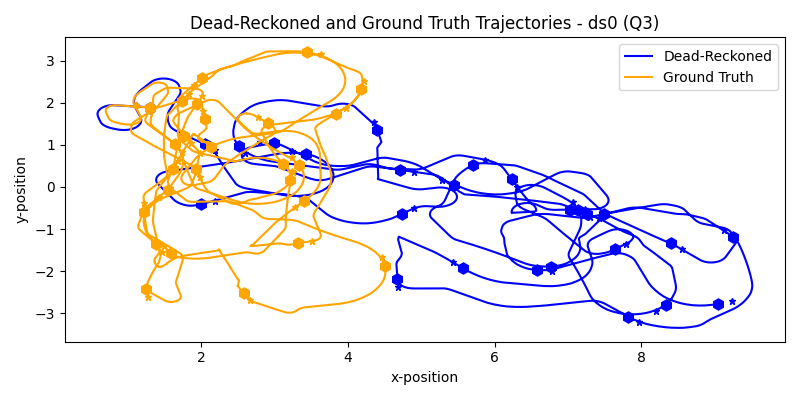
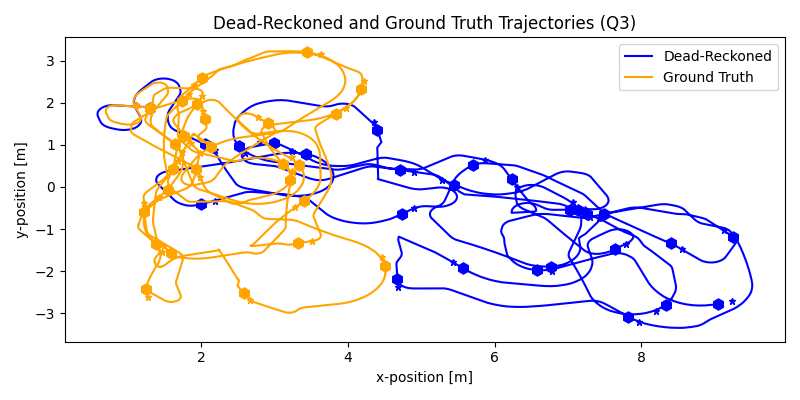
Added more analysis

Changed region(s): [[0.2188, 0.03, 0.8125, 0.09], [0.0, 0.36, 0.0312, 0.6], [0.4688, 0.93, 0.5938, 0.96]]

diff --git a/run.py b/run.py
@@ -145,12 +145,14 @@ def gen_u_traj_test(h):
 
     return np.vstack([straight, right_turn, straight, left_turn, straight])
 
-def plot_wheeled_robot(trajectories, title, filename):
+def plot_wheeled_robot(trajectories, title, filename, plot_dr=True):
     """
     Plot the trajectory followed by a wheeled robot in the X-Y Plane
     """
     # Plot path
-    fig, ax = plt.subplots(1, 1, figsize=(8,4), tight_layout=True)
+    if plot_dr: length = 8
+    else: length = 5
+    fig, ax = plt.subplots(1, 1, figsize=(length,4), tight_layout=True)
     for traj, label, display_robot, color, offset in trajectories:    # Plot multiple trajectories
         ax.plot(traj[:, 0], traj[:, 1], label=label, color=color)
 
@@ -164,8 +166,8 @@ def plot_wheeled_robot(trajectories, title, filename):
                     ax.plot(th_x, th_y, linestyle='', marker='*', markersize=5, color=color)
         
     plt.title(title)
-    plt.xlabel("x-position")
-    plt.ylabel("y-position")
+    plt.xlabel("x-position [m]")
+    plt.ylabel("y-position [m]")
     plt.legend()
     fig_path = os.path.join(PLOT_PATH, filename)
     plt.savefig(fig_path)
@@ -257,8 +259,8 @@ def q6():
     # Move legend outside plot
     ax.legend(loc='center left', bbox_to_anchor=(1, 0.5))
     plt.title('Comparison of Measured and Ground Truth Landmark Positions')
-    plt.xlabel("x-position")
-    plt.ylabel("y-position")
+    plt.xlabel("x-position [m]")
+    plt.ylabel("y-position [m]")
     # plt.legend()
     fig_path = os.path.join(PLOT_PATH, 'q6.png')
     plt.savefig(fig_path)
@@ -281,24 +283,36 @@ def q8a():
     t0 = 0.0
     tf = 5.0
     h = 0.01
-    R = np.diag(np.array([0.0001, 0.0001, 0.0001]))
-    q_val = 0.0001
-    Q = np.diag(np.array([q_val, q_val]))
     u_traj = gen_u_traj_test(h) # Generate control trajectory
     tspan, x_traj_dr = dead_reckon(u_traj, motion_model, x0, t0, tf, h, tsync='const')
-    tspan_ukf, x_traj_ukf = unscented_kalman(u_traj, z_df, landmarks, subject_dict, motion_model, measurement_model, 
+    R = np.diag(np.array([0.0001, 0.0001, 0.0001])) # Low noise
+    q_val = 0.0001
+    Q = np.diag(np.array([q_val, q_val]))
+    tspan_ukf, x_traj_ukf_low = unscented_kalman(u_traj, z_df, landmarks, subject_dict, motion_model, measurement_model, 
+                                             x0, t0, tf, h, Q, R, aug=False, tsync='const')
+    R = np.diag(np.array([0.001, 0.001, 0.001])) # Medium noise
+    q_val = 0.001
+    Q = np.diag(np.array([q_val, q_val]))
+    tspan_ukf, x_traj_ukf_med = unscented_kalman(u_traj, z_df, landmarks, subject_dict, motion_model, measurement_model, 
+                                             x0, t0, tf, h, Q, R, aug=False, tsync='const')
+    R = np.diag(np.array([0.01, 0.01, 0.01])) # Higher noise
+    q_val = 0.01
+    Q = np.diag(np.array([q_val, q_val]))
+    tspan_ukf, x_traj_ukf_high = unscented_kalman(u_traj, z_df, landmarks, subject_dict, motion_model, measurement_model, 
                                              x0, t0, tf, h, Q, R, aug=False, tsync='const')
 
     disp_bots = True
     trajectories = [
         (x_traj_dr, 'Dead-Reckoned', disp_bots, 'blue', 0.02),
-        (x_traj_ukf, 'UKF', disp_bots, 'red', 0.02),
+        (x_traj_ukf_low, 'UKF (Low Noise)', disp_bots, 'red', 0.02),
+        (x_traj_ukf_med, 'UKF (Med. Noise)', disp_bots, 'green', 0.02),
+        (x_traj_ukf_high, 'UKF (High Noise)', disp_bots, 'purple', 0.02),
     ]
     _ = plot_wheeled_robot(trajectories, "Dead-Reckoned and UKF Comparison for Artificial Control Trajectory (Q8a)", "q8a.png")
     print("Done\n")
 
 def q8b_9():
-    print("Running question 8b...", end="", flush=True)
+    print("Running question 8b and 9...", end="", flush=True)
     # Read data
     controls_data_path = os.path.join(DATA_PATH, 'ds0', 'ds0_Control.dat')
     u_df = pd.read_csv(controls_data_path, sep=r"\s+", comment="#", header=None, names=["time", "vel", "omega"])
@@ -318,6 +332,13 @@ def q8b_9():
     tf = u_df['time'].iloc[-1]
     h = 1/67.0  # Odometry logged at 67 Hz
     u_traj = np.array(u_df.iloc[:, 1:])
+
+    R = np.diag(np.array([0.000001, 0.000001, 0.000001]))
+    q_val = 0.000001
+    Q = np.diag(np.array([q_val, q_val]))   # No noise
+    tspan_dr, x_traj_dr = dead_reckon(u_traj, motion_model, x0, t0, tf, h, Q, tspan=u_df['time'], tsync='var')
+    tspan_ukf_none, x_traj_ukf_none = unscented_kalman(u_traj, z_df, landmarks, subject_dict, motion_model, measurement_model, 
+                                             x0, t0, tf, h, Q, R, aug=False, tspan=u_df['time'], tsync='var')
 
     R = np.diag(np.array([0.0001, 0.0001, 0.0001]))
     q_val = 0.0001
@@ -342,12 +363,18 @@ def q8b_9():
 
     # Plotting
     disp_bots = False
+    trajectories_8b = [     # No noise
+        (x_traj_dr, 'Dead-Reckoned', disp_bots, 'blue', 0.2),
+        (x_traj_ukf_none, 'UKF', disp_bots, 'red', 0.2),
+        (x_traj_gt, 'Ground Truth', disp_bots, 'orange', 0.2)
+    ]
+    _ = plot_wheeled_robot(trajectories_8b, "Dead-Reckoned vs. UKF Comparison with No Noise (Q9)", "q9_none.png")
     trajectories_8b = [     # Low noise
         (x_traj_dr, 'Dead-Reckoned', disp_bots, 'blue', 0.2),
         (x_traj_ukf_low, 'UKF', disp_bots, 'red', 0.2),
         (x_traj_gt, 'Ground Truth', disp_bots, 'orange', 0.2)
     ]
-    _ = plot_wheeled_robot(trajectories_8b, "Dead-Reckoned vs. UKF Comparison with Low Noise (Q8b)", "q8b.png")
+    _ = plot_wheeled_robot(trajectories_8b, "Dead-Reckoned vs. UKF Comparison with Low Noise (Q9)", "q9_low.png")
     trajectories_8b = [     # Moderate Noise
         (x_traj_dr, 'Dead-Reckoned', disp_bots, 'blue', 0.2),
         (x_traj_ukf, 'UKF', disp_bots, 'red', 0.2),
@@ -359,21 +386,24 @@ def q8b_9():
         (x_traj_ukf_high, 'UKF', disp_bots, 'red', 0.2),
         (x_traj_gt, 'Ground Truth', disp_bots, 'orange', 0.2)
     ]
-    _ = plot_wheeled_robot(trajectories_8b, "Dead-Reckoned vs. UKF Comparison with High Noise (Q8b)", "q8b.png")
+    _ = plot_wheeled_robot(trajectories_8b, "Dead-Reckoned vs. UKF Comparison with High Noise (Q9)", "q9_high.png")
 
     # Compute statistics
     num_samples = x_traj_gt.shape[0] + (x_traj_ukf.shape[0] - x_traj_gt.shape[0])//2
     traj_dr_resamp = t_match(x_traj_dr, num_samples)
+    traj_ukf_none_resamp = t_match(x_traj_ukf_none, num_samples)
     traj_ukf_low_resamp = t_match(x_traj_ukf_low, num_samples)
     traj_ukf_resamp = t_match(x_traj_ukf, num_samples)
     traj_ukf_high_resamp = t_match(x_traj_ukf_high, num_samples)
     traj_gt_resamp = t_match(x_traj_gt, num_samples)
     stats_dr = compute_traj_statistics(traj_dr_resamp, traj_gt_resamp)
+    stats_ukf_none = compute_traj_statistics(traj_ukf_none_resamp, traj_gt_resamp)
     stats_ukf_low = compute_traj_statistics(traj_ukf_low_resamp, traj_gt_resamp)
     stats_ukf = compute_traj_statistics(traj_ukf_resamp, traj_gt_resamp)
     stats_ukf_high = compute_traj_statistics(traj_ukf_high_resamp, traj_gt_resamp)
 
-    metrics_dict = {'dead_reckoned': stats_dr, 'ukf_low': stats_ukf_low, 'ukf': stats_ukf, 'ukf_high': stats_ukf_high}
+    metrics_dict = {'dead_reckoned': stats_dr, 'ukf_none': stats_ukf_none, 
+                    'ukf_low': stats_ukf_low, 'ukf': stats_ukf, 'ukf_high': stats_ukf_high}
     for key, value in metrics_dict.items():
         met_path = os.path.join(METRICS_PATH, f'{key}_metrics.json')
         with open(met_path, "w") as f:
@@ -381,6 +411,7 @@ def q8b_9():
     print("Done\n")
 
 def aug():
+    print("Running augmented comparison...", end="", flush=True)
     # Read data
     controls_data_path = os.path.join(DATA_PATH, 'ds0', 'ds0_Control.dat')
     u_df = pd.read_csv(controls_data_path, sep=r"\s+", comment="#", header=None, names=["time", "vel", "omega"])
@@ -404,22 +435,176 @@ def aug():
     q_val = 0.1
     Q = np.diag(np.array([q_val, q_val]))
         
-    tspan_ukf, x_traj_ukf = unscented_kalman(u_traj, z_df, landmarks, subject_dict, motion_model, measurement_model, 
+    tspan_ukf, x_traj_ukf = unscented_kalman(u_traj, z_df, landmarks, subject_dict, motion_model, measurement_model,    # Regular UKF
                                              x0, t0, tf, h, Q, R, aug=False, tspan=u_df['time'], tsync='var')
-    ukf_aug = True
-    Q = np.diag(np.array([q_val, q_val, q_val]))
-    tspan_ukf_aug, x_traj_ukf_aug = unscented_kalman(u_traj, z_df, landmarks, subject_dict, motion_model, measurement_model, 
-                                             x0, t0, tf, h, Q, R, aug=True, tspan=u_df['time'], tsync='var')
-    x_traj_gt = np.array(ground_truth.iloc[:, 1:])
+    
 
+    R = np.diag(np.array([0.000001, 0.000001, 0.000001]))
+    q_val = 0.000001
+    Q = np.diag(np.array([q_val, q_val, q_val]))   # No noise aug
+    tspan_dr, x_traj_dr = dead_reckon(u_traj, motion_model, x0, t0, tf, h, Q, tspan=u_df['time'], tsync='var')
+    tspan_ukf_none, x_traj_ukf_aug_none = unscented_kalman(u_traj, z_df, landmarks, subject_dict, motion_model, measurement_model, 
+                                             x0, t0, tf, h, Q, R, aug=True, tspan=u_df['time'], tsync='var')
+
+    R = np.diag(np.array([0.0001, 0.0001, 0.0001]))
+    q_val = 0.0001
+    Q = np.diag(np.array([q_val, q_val, q_val]))   # Low noise aug
+    tspan_dr, x_traj_dr = dead_reckon(u_traj, motion_model, x0, t0, tf, h, Q, tspan=u_df['time'], tsync='var')
+    tspan_ukf_low, x_traj_ukf_aug_low = unscented_kalman(u_traj, z_df, landmarks, subject_dict, motion_model, measurement_model, 
+                                             x0, t0, tf, h, Q, R, aug=True, tspan=u_df['time'], tsync='var')
+    
+    R = np.diag(np.array([0.01, 0.01, 0.01]))   # Moderate noise aug
+    q_val = 0.01
+    Q = np.diag(np.array([q_val, q_val, q_val]))
+    tspan_ukf, x_traj_ukf_aug = unscented_kalman(u_traj, z_df, landmarks, subject_dict, motion_model, measurement_model, 
+                                             x0, t0, tf, h, Q, R, aug=True, tspan=u_df['time'], tsync='var')
+    
+    R = np.diag(np.array([0.1, 0.1, 0.1]))   # High noise aug
+    q_val = 0.1
+    Q = np.diag(np.array([q_val, q_val, q_val]))
+    x_traj_gt = np.array(ground_truth.iloc[:, 1:])
+    tspan_ukf, x_traj_ukf_aug_high = unscented_kalman(u_traj, z_df, landmarks, subject_dict, motion_model, measurement_model, 
+                                             x0, t0, tf, h, Q, R, aug=True, tspan=u_df['time'], tsync='var')
+
+    # Plotting
     disp_bots = False
-    trajectories_aug = trajectories_8b = [
-        (x_traj_ukf_aug, 'Augmented UKF', disp_bots, 'purple', 0.2),
+    trajectories_comp = [     # No noise
         (x_traj_ukf, 'UKF', disp_bots, 'red', 0.2),
+        (x_traj_ukf_aug_none, 'Augmented UKF', disp_bots, 'purple', 0.2),
         (x_traj_gt, 'Ground Truth', disp_bots, 'orange', 0.2)
     ]
-    _ = plot_wheeled_robot(trajectories_aug, "Regular vs. Augmented UKF Comparsion", "aug.png")
+    _ = plot_wheeled_robot(trajectories_comp, "Regular UKF vs. Augmented UKF Comparison with No Noise", "aug_reg.png", plot_dr=False)
+    trajectories_no = [     # No noise
+        (x_traj_dr, 'Dead-Reckoned', disp_bots, 'blue', 0.2),
+        (x_traj_ukf_aug_none, 'Augmented UKF', disp_bots, 'purple', 0.2),
+        (x_traj_gt, 'Ground Truth', disp_bots, 'orange', 0.2)
+    ]
+    _ = plot_wheeled_robot(trajectories_no, "Dead-Reckoned vs. Augmented UKF Comparison with No Noise", "aug_none.png")
+    trajectories_low = [     # Low noise
+        (x_traj_dr, 'Dead-Reckoned', disp_bots, 'blue', 0.2),
+        (x_traj_ukf_aug_low, 'Augmented UKF', disp_bots, 'purple', 0.2),
+        (x_traj_gt, 'Ground Truth', disp_bots, 'orange', 0.2)
+    ]
+    _ = plot_wheeled_robot(trajectories_low, "Dead-Reckoned vs. Augmented UKF Comparison with Low Noise", "aug_low.png")
+    trajectories = [     # Moderate Noise
+        (x_traj_dr, 'Dead-Reckoned', disp_bots, 'blue', 0.2),
+        (x_traj_ukf_aug, 'Augmented UKF', disp_bots, 'purple', 0.2),
+        (x_traj_gt, 'Ground Truth', disp_bots, 'orange', 0.2)
+    ]
+    _ = plot_wheeled_robot(trajectories, "Dead-Reckoned vs. Augmented UKF Comparison", "aug.png")
+    trajectories_high = [     # High noise
+        (x_traj_dr, 'Dead-Reckoned', disp_bots, 'blue', 0.2),
+        (x_traj_ukf_aug_high, 'Augmented UKF', disp_bots, 'purple', 0.2),
+        (x_traj_gt, 'Ground Truth', disp_bots, 'orange', 0.2)
+    ]
+    _ = plot_wheeled_robot(trajectories_high, "Dead-Reckoned vs. Augmented UKF Comparison with High Noise", "aug_high.png")
+
+    # Compute statistics
+    num_samples = x_traj_gt.shape[0] + (x_traj_ukf.shape[0] - x_traj_gt.shape[0])//2
+    traj_dr_resamp = t_match(x_traj_dr, num_samples)
+    traj_ukf_aug_none_resamp = t_match(x_traj_ukf_aug_none, num_samples)
+    traj_ukf_aug_low_resamp = t_match(x_traj_ukf_aug_low, num_samples)
+    traj_ukf_aug_resamp = t_match(x_traj_ukf_aug, num_samples)
+    traj_ukf_aug_high_resamp = t_match(x_traj_ukf_aug_high, num_samples)
+    traj_gt_resamp = t_match(x_traj_gt, num_samples)
+    stats_dr = compute_traj_statistics(traj_dr_resamp, traj_gt_resamp)
+    stats_ukf_aug_none = compute_traj_statistics(traj_ukf_aug_none_resamp, traj_gt_resamp)
+    stats_ukf_aug_low = compute_traj_statistics(traj_ukf_aug_low_resamp, traj_gt_resamp)
+    stats_ukf_aug = compute_traj_statistics(traj_ukf_aug_resamp, traj_gt_resamp)
+    stats_ukf_aug_high = compute_traj_statistics(traj_ukf_aug_high_resamp, traj_gt_resamp)
+
+    metrics_dict = {'dead_reckoned': stats_dr, 'ukf_aug_none': stats_ukf_aug_none, 
+                    'ukf_aug_low': stats_ukf_aug_low, 'ukf_aug': stats_ukf_aug, 'ukf_aug_high': stats_ukf_aug_high}
+    for key, value in metrics_dict.items():
+        met_path = os.path.join(METRICS_PATH, f'{key}_metrics.json')
+        with open(met_path, "w") as f:
+            json.dump(value, f, indent=4)
+    print("Done\n")
+
+def study_comp():
+    print("Running augmented comparison...", end="", flush=True)
+    # Read data
+    controls_data_path = os.path.join(DATA_PATH, 'ds0', 'ds0_Control.dat')
+    u_df = pd.read_csv(controls_data_path, sep=r"\s+", comment="#", header=None, names=["time", "vel", "omega"])
+    landmarks_data_path = os.path.join(DATA_PATH, 'ds0', 'ds0_Landmark_Groundtruth.dat')
+    landmarks = pd.read_csv(landmarks_data_path, sep=r"\s+", comment="#", header=None, names=["subject", "x", "y", "x_sig", "y_sig"])
+    truth_data_path = os.path.join(DATA_PATH, 'ds0', 'ds0_Groundtruth.dat')
+    ground_truth = pd.read_csv(truth_data_path, sep=r"\s+", comment="#", header=None, names=["time", "x", "y", "theta"])
+    measurement_data_path = os.path.join(DATA_PATH, 'ds0', 'ds0_Measurement.dat')
+    z_df = pd.read_csv(measurement_data_path, sep=r"\s+", comment="#", header=None, names=["time", "barcode", "range", "bearing"])
+    barcodes_data_path = os.path.join(DATA_PATH, 'ds0', 'ds0_Barcodes.dat')
+    barcodes_df = pd.read_csv(barcodes_data_path, sep=r"\s+", comment="#", header=None, names=["subject", "barcodes"])
+    subject_dict = barcodes_df.set_index("barcodes")["subject"].to_dict()   # Map barcodes to subject number
+
+    # Simulation conditions and run simulation
+    x0 = np.array(ground_truth.iloc[0][1:])
+    t0 = u_df['time'].iloc[0]
+    tf = u_df['time'].iloc[-1]
+    h = 1/67.0  # Odometry logged at 67 Hz
+    u_traj = np.array(u_df.iloc[:, 1:])
+    p = 1.0
+    R = np.diag(np.array([p, p, p]))
+    Q = np.diag(np.array([p, p]))
+        
+    tspan_ukf, x_traj_ukf_slow = unscented_kalman(u_traj, z_df, landmarks, subject_dict, motion_model, measurement_model,    # Regular UKF p=1.0
+                                             x0, t0, tf, h, Q, R, aug=False, tspan=u_df['time'], tsync='var')
     
+    p = 10.0
+    R = np.diag(np.array([p, p, p]))
+    Q = np.diag(np.array([p, p]))
+        
+    tspan_ukf, x_traj_ukf_shigh = unscented_kalman(u_traj, z_df, landmarks, subject_dict, motion_model, measurement_model,    # Regular UKF p=10.0
+                                             x0, t0, tf, h, Q, R, aug=False, tspan=u_df['time'], tsync='var')
+    
+
+    R = np.diag(np.array([p, p, p]))
+    Q = np.diag(np.array([p, p, p]))
+        
+    tspan_ukf, x_traj_ukf_aug_slow = unscented_kalman(u_traj, z_df, landmarks, subject_dict, motion_model, measurement_model,    # Augmented UKF p=1.0
+                                             x0, t0, tf, h, Q, R, aug=True, tspan=u_df['time'], tsync='var')
+    
+    p = 10.0
+    R = np.diag(np.array([p, p, p]))
+    Q = np.diag(np.array([p, p, p]))
+        
+    tspan_ukf, x_traj_ukf_aug_shigh = unscented_kalman(u_traj, z_df, landmarks, subject_dict, motion_model, measurement_model,    # Augmented UKF p=10.0
+                                             x0, t0, tf, h, Q, R, aug=True, tspan=u_df['time'], tsync='var')
+    
+    x_traj_gt = np.array(ground_truth.iloc[:, 1:])
+
+    # Plotting
+    disp_bots = False
+    trajectories_slow = [     # No noise
+        (x_traj_ukf_slow, 'UKF', disp_bots, 'red', 0.2),
+        (x_traj_ukf_aug_slow, 'Augmented UKF', disp_bots, 'purple', 0.2),
+        (x_traj_gt, 'Ground Truth', disp_bots, 'orange', 0.2)
+    ]
+    _ = plot_wheeled_robot(trajectories_slow, "Regular UKF vs. Augmented UKF Comparison with p=1.0", "slow.png", plot_dr=False)
+    trajectories_shigh = [     # No noise
+        (x_traj_ukf_shigh, 'Dead-Reckoned', disp_bots, 'blue', 0.2),
+        (x_traj_ukf_aug_shigh, 'Augmented UKF', disp_bots, 'purple', 0.2),
+        (x_traj_gt, 'Ground Truth', disp_bots, 'orange', 0.2)
+    ]
+    _ = plot_wheeled_robot(trajectories_shigh, "Regular UKF vs. Augmented UKF Comparison with p=10.0", "shigh.png", plot_dr=False)
+
+    # Compute statistics
+    num_samples = x_traj_gt.shape[0] + (x_traj_ukf_slow.shape[0] - x_traj_gt.shape[0])//2
+    traj_ukf_slow_resamp = t_match(x_traj_ukf_slow, num_samples)
+    traj_ukf_aug_slow_resamp = t_match(x_traj_ukf_aug_slow, num_samples)
+    traj_ukf_shigh_resamp = t_match(x_traj_ukf_shigh, num_samples)
+    traj_ukf_aug_shigh_resamp = t_match(x_traj_ukf_aug_shigh, num_samples)
+    traj_gt_resamp = t_match(x_traj_gt, num_samples)
+    stats_ukf_slow = compute_traj_statistics(traj_ukf_slow_resamp, traj_gt_resamp)
+    stats_ukf_aug_slow = compute_traj_statistics(traj_ukf_aug_slow_resamp, traj_gt_resamp)
+    stats_ukf_shigh = compute_traj_statistics(traj_ukf_shigh_resamp, traj_gt_resamp)
+    stats_ukf_aug_shigh = compute_traj_statistics(traj_ukf_aug_shigh_resamp, traj_gt_resamp)
+
+    metrics_dict = {'ukf_slow': stats_ukf_slow, 'ukf_aug_slow': stats_ukf_aug_slow, 'ukf_aug': stats_ukf_shigh, 'ukf_aug_high': stats_ukf_aug_shigh}
+    for key, value in metrics_dict.items():
+        met_path = os.path.join(METRICS_PATH, f'{key}_metrics.json')
+        with open(met_path, "w") as f:
+            json.dump(value, f, indent=4)
+    print("Done\n")
 
 def main():
     print("*** STARTING ***\n")
@@ -427,7 +612,9 @@ def main():
     # q3()
     # q6()
     # q8a()
-    q8b_9()
+    # q8b_9()
+    # aug()
+    study_comp()
     
     print("\n*** DONE ***")
     return
